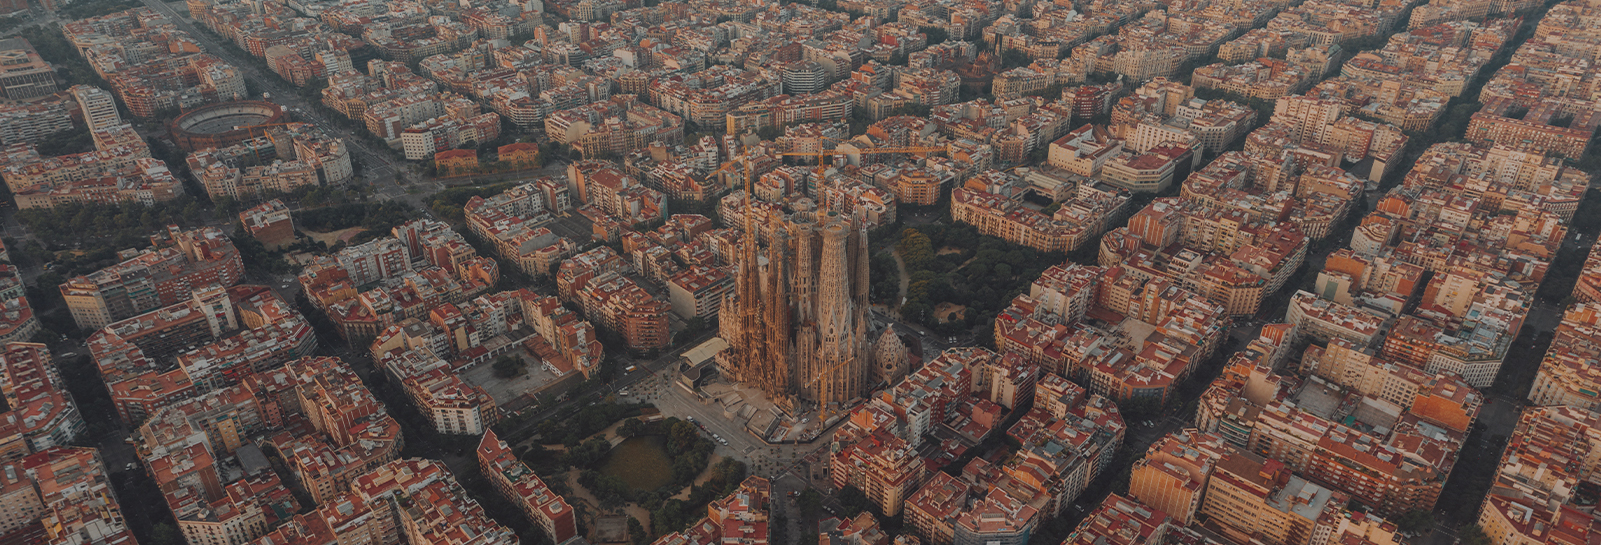
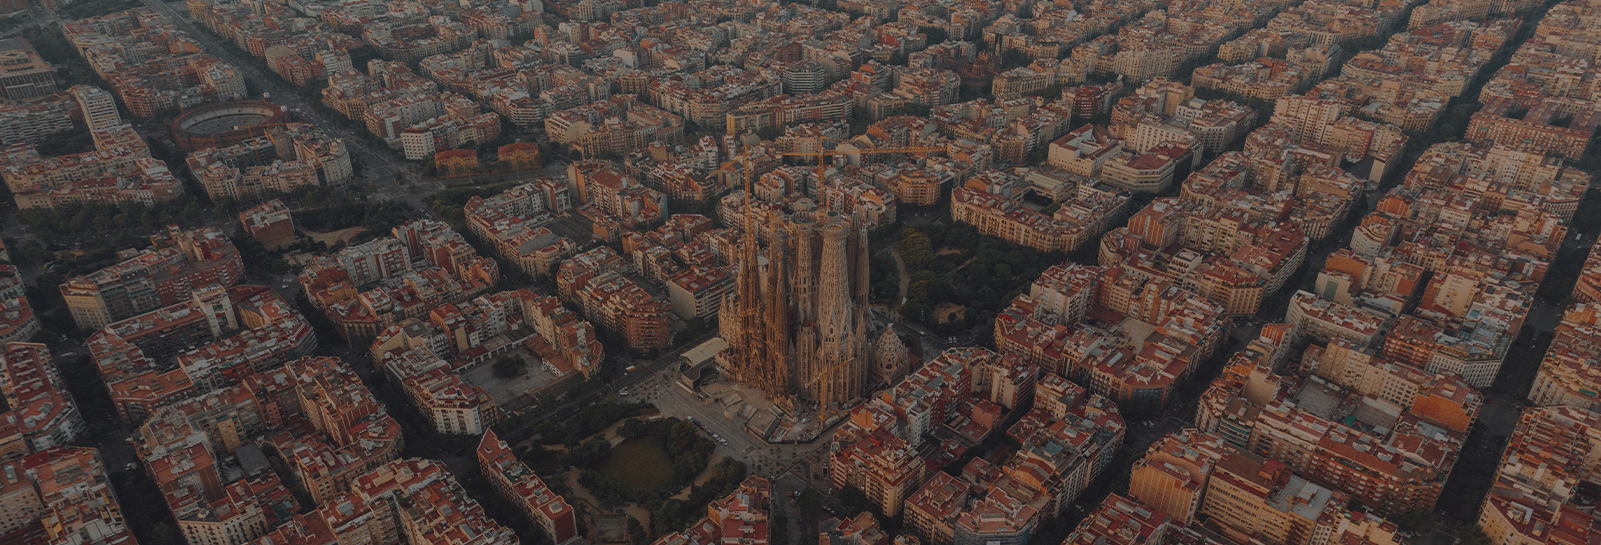
Various changes
Images adjustments
README fullfilling
GA Tag addition

diff --git a/index.html b/index.html
@@ -1,9 +1,21 @@
 <!DOCTYPE HTML>
 <!--
-	Prject by nachomileo - Template by Pixelarity
+	Project by fresco. & nachomileo - Template by Pixelarity
 -->
 <html>
 	<head>
+
+		<!-- Google tag (gtag.js) -->
+		<script async src="https://www.googletagmanager.com/gtag/js?id=G-X755CVYVVC"></script>
+		<script>
+		  window.dataLayer = window.dataLayer || [];
+		  function gtag(){dataLayer.push(arguments);}
+		  gtag('js', new Date());
+
+		  gtag('config', 'G-X755CVYVVC');
+		</script>
+
+
 		<title>NOW by fresco.</title>
 		<meta charset="utf-8" />
 		<meta name="viewport" content="width=device-width, initial-scale=1" />
@@ -112,7 +124,7 @@
 										        try { var value = row.c[0].f ? row.c[0].f : row.c[0].v }
 										        catch(e){ var value = '' }
 
-										        details += '<header><h2><a href="#">' + value + '</a></h2>';
+										        details += '<header><h2><a>' + value + '</a></h2>';
 
 										        try { var value = row.c[1].f ? row.c[1].f : row.c[1].v }
 										        catch(e){ var value = '' }

diff --git a/bcn.html b/bcn.html
@@ -1,9 +1,21 @@
 <!DOCTYPE HTML>
 <!--
-	Prject by nachomileo - Template by Pixelarity
+	Project by fresco. & nachomileo - Template by Pixelarity
 -->
 <html>
 	<head>
+
+		<!-- Google tag (gtag.js) -->
+		<script async src="https://www.googletagmanager.com/gtag/js?id=G-X755CVYVVC"></script>
+		<script>
+		  window.dataLayer = window.dataLayer || [];
+		  function gtag(){dataLayer.push(arguments);}
+		  gtag('js', new Date());
+
+		  gtag('config', 'G-X755CVYVVC');
+		</script>
+
+
 		<title>NOW by fresco.</title>
 		<meta charset="utf-8" />
 		<meta name="viewport" content="width=device-width, initial-scale=1" />

diff --git a/README.md b/README.md
@@ -1,1 +1,7 @@
-# now-by-fresco
+# NOW by fresco.
+
+[now.fresco.art](https://now.fresco.art)
+
+Hemos creado este espacio colaborativo para compartir la actividad cultural de las principales ciudades de España, empezando por Madrid y Barcelona (pronto iremos añadiendo más). Habrá algunas actividades curadas por fresco. y otras abiertas a la comunidad.
+
+Website [fresco.](https://fresco.art)
